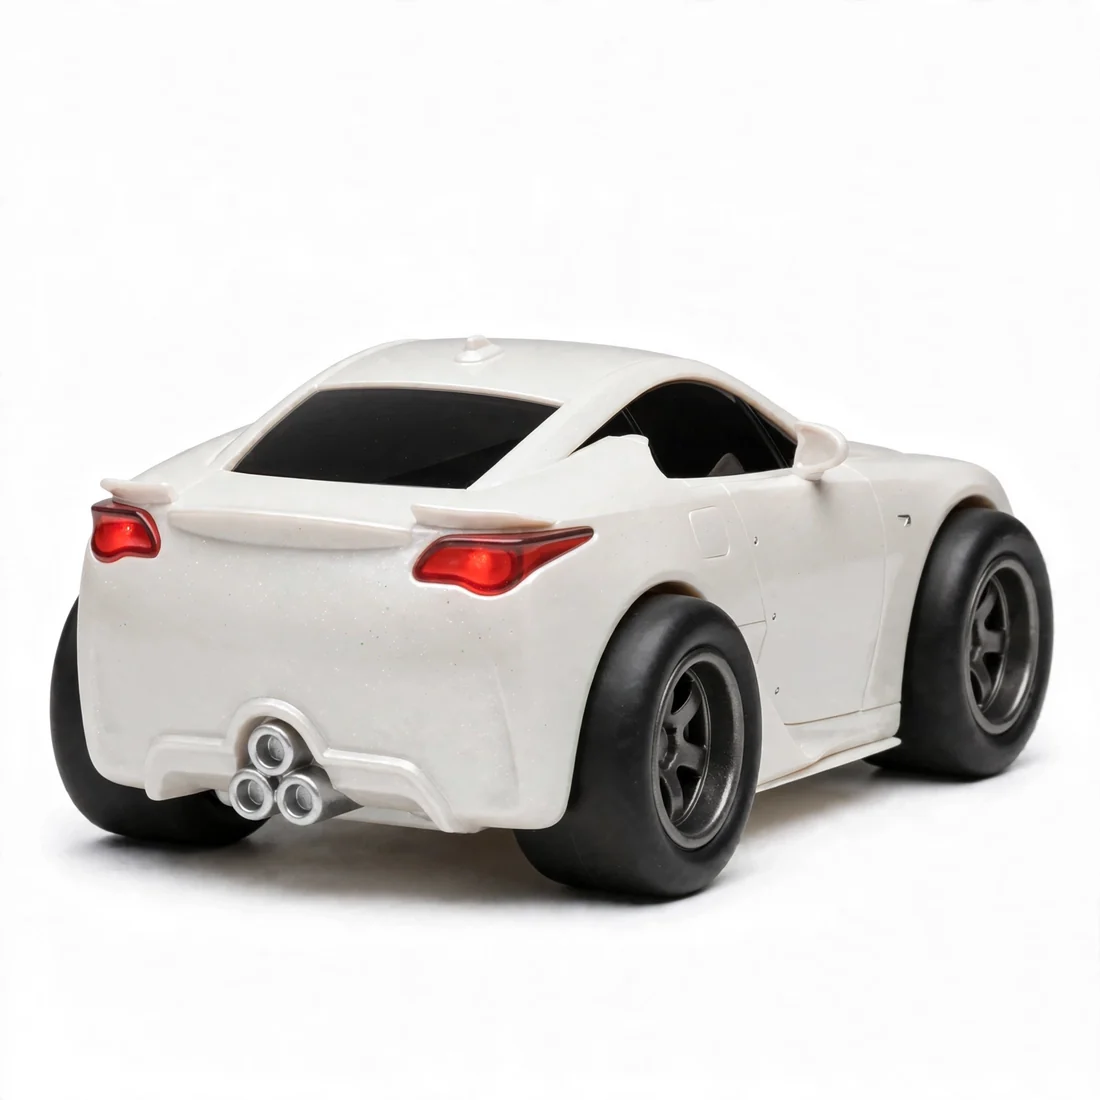
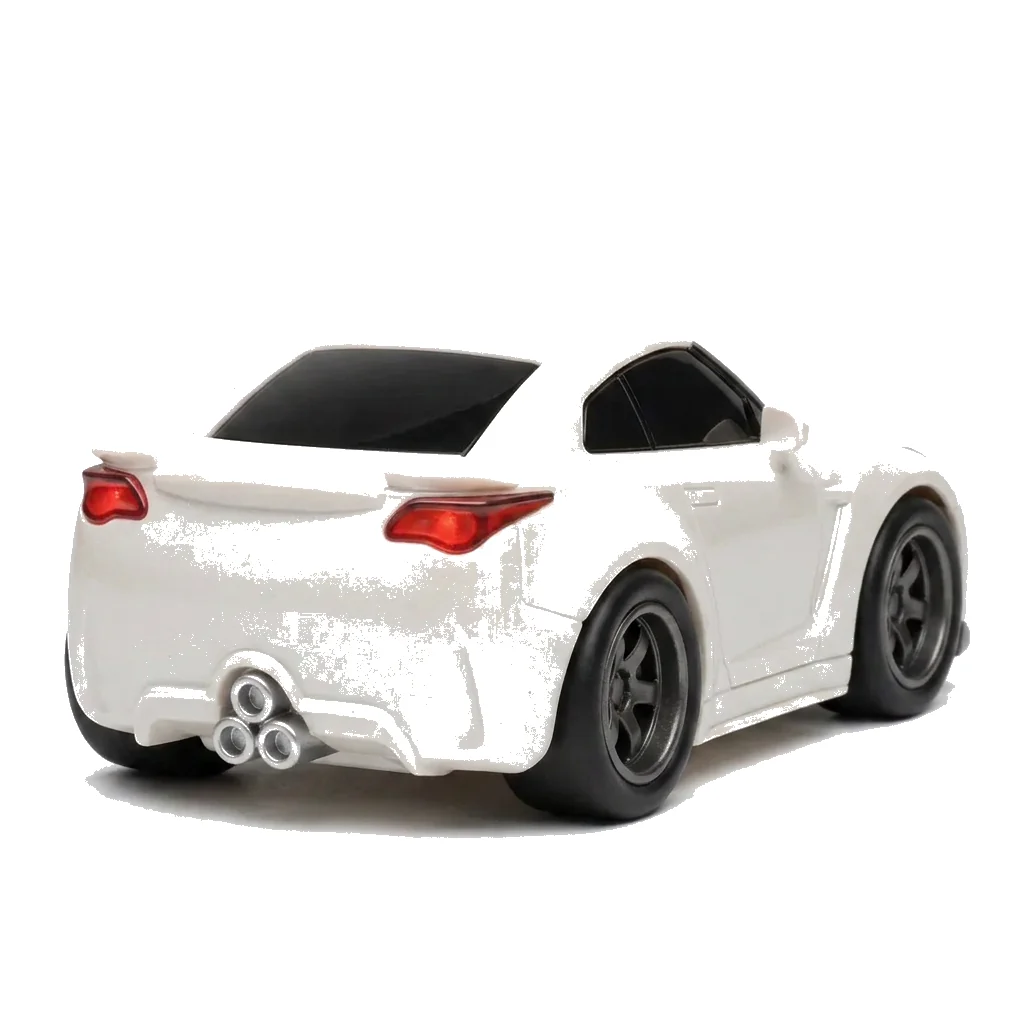
Estilo unificado en Eclipse y LFA, flujo 3D gratuito y laterales de referencia

Changed region(s): [[0.0312, 0.2812, 0.9688, 0.8438]]

diff --git a/produccion/FLUJO_GRATIS.md b/produccion/FLUJO_GRATIS.md
@@ -1,0 +1,103 @@
+# FLUJO 100% GRATIS — de la foto al fichero de impresión, los 15 modelos
+
+Coste total en herramientas: **0 €**. Solo tu tiempo.
+Ritmo real: **20-25 min el primer modelo, 8-10 min a partir del tercero.** Los 15 en 2-3 tardes.
+
+---
+
+## Las herramientas (todas gratis, ninguna de pago)
+
+| Paso | Herramienta | Coste | Instalar |
+|---|---|---|---|
+| Foto → malla 3D | **Hunyuan3D-2** o **TRELLIS** en huggingface.co | 0 € | No, va en el navegador |
+| Reparar y vaciar | **Blender** + add-on *3D Print Toolbox* | 0 € | Sí |
+| Verificar | **PrusaSlicer** | 0 € | Sí |
+| Alojar los ficheros | **Google Drive** con enlace público | 0 € | No |
+
+> Alternativas si HuggingFace va saturado: **Tripo3D** y **Meshy** dan créditos gratis cada mes. Cuando se agotan, vuelves a HuggingFace, que no caduca.
+
+---
+
+## El material de entrada ya lo tienes
+
+En `produccion/referencias/` hay una carpeta por modelo. Cuantas más vistas le des a la IA, mejor sale la malla:
+
+| Vista | Para qué sirve | Estado |
+|---|---|---|
+| ¾ frontal | Base principal | ✅ los 15 |
+| ¾ trasera | Cierra la parte de atrás | ✅ los 15 |
+| **Lateral** | Define la silueta, la más útil de las tres extra | 🔄 en curso |
+| Frontal recta | Simetría | ✅ solo R34 (ejemplo) |
+| Cenital | Techo y contorno | ✅ solo R34 (ejemplo) |
+
+Con **¾ frontal + ¾ trasera + lateral** ya sale una malla buena. Las cinco vistas del R34 son el ejemplo de máxima calidad.
+
+---
+
+## Proceso por modelo
+
+### 1 · Malla (5 min)
+HuggingFace → Space *Hunyuan3D-2* → subir las vistas del modelo → generar → descargar **GLB**.
+
+### 2 · Blender (10 min)
+```
+Importar GLB
+Tecla N → Dimensiones → largo = 0.07 m        (70 mm)
+3D Print Toolbox → Check All → Make Manifold  (repara agujeros)
+Modificador Solidify → grosor -2 mm → Even Thickness   (vaciado)
+Cilindro 4 mm en los bajos → Boolean → Difference      (drenaje)
+Exportar → .3mf                                (¡NO .stl, no lleva color!)
+```
+
+### 3 · Verificar (2 min)
+PrusaSlicer → abrir → ¿estanco? ¿cuántos cm³? **Apunta el volumen, es tu coste real.**
+
+### 4 · Nombrar
+`r34.3mf`, `r32.3mf`, `350z.3mf`, `supra.3mf`, `ae86.3mf`, `mr2.3mf`, `rx7.3mf`, `nsx.3mf`, `civic.3mf`, `s2000.3mf`, `evo.3mf`, `eclipse.3mf`, `3000gt.3mf`, `wrc.3mf`, `lfa.3mf`
+Y las doradas: `r34-gold.3mf`, etc. (misma geometría, solo cambia el color en la ficha del proveedor).
+
+---
+
+## Hoja de control
+
+| # | Modelo | slug | Malla | Blender | Verificado | Volumen cm³ |
+|---|---|---|---|---|---|---|
+| 01 | Ronin | `r34` | ☐ | ☐ | ☐ | |
+| 02 | Ogro | `r32` | ☐ | ☐ | ☐ | |
+| 03 | Zeta | `350z` | ☐ | ☐ | ☐ | |
+| 04 | Naranja | `supra` | ☐ | ☐ | ☐ | |
+| 05 | Tofu | `ae86` | ☐ | ☐ | ☐ | |
+| 06 | Mini Exótico | `mr2` | ☐ | ☐ | ☐ | |
+| 07 | Rotativo | `rx7` | ☐ | ☐ | ☐ | |
+| 08 | Samurái | `nsx` | ☐ | ☐ | ☐ | |
+| 09 | Tipo R | `civic` | ☐ | ☐ | ☐ | |
+| 10 | VTEC | `s2000` | ☐ | ☐ | ☐ | |
+| 11 | Evolucionado | `evo` | ☐ | ☐ | ☐ | |
+| 12 | Verde Fosforito | `eclipse` | ☐ | ☐ | ☐ | |
+| 13 | Gran Turismo | `3000gt` | ☐ | ☐ | ☐ | |
+| 14 | 22B | `wrc` | ☐ | ☐ | ☐ | |
+| 15 | Ángel | `lfa` | ☐ | ☐ | ☐ | |
+
+**Empieza por el 01 y para.** Con ese único fichero pide presupuesto y una muestra física. Cuando la tengas en la mano y te convenza, haces los 14 restantes.
+
+---
+
+## Conectar con la tienda
+
+Cuando los tengas subidos a Drive con enlace público, en Vercel:
+
+```
+STL_BASE_URL = https://tu-carpeta-publica
+MODEL_EXT    = 3mf
+```
+
+El código ya lo soporta. A partir de ahí, cada pedido pagado dispara el envío del fichero correcto al fabricante, sin que toques nada.
+
+---
+
+## Los 4 errores que arruinan una tirada
+
+1. **Mandar STL esperando color** → STL solo guarda geometría. Usa **3MF**.
+2. **No vaciar** → maciza cuesta 3-4 veces más. En 500 uds son cientos de euros.
+3. **Sin agujero de drenaje** → rechazo automático en resina.
+4. **Hacer los 15 antes de tocar una muestra** → si el proveedor falla, tiras semanas de trabajo.
